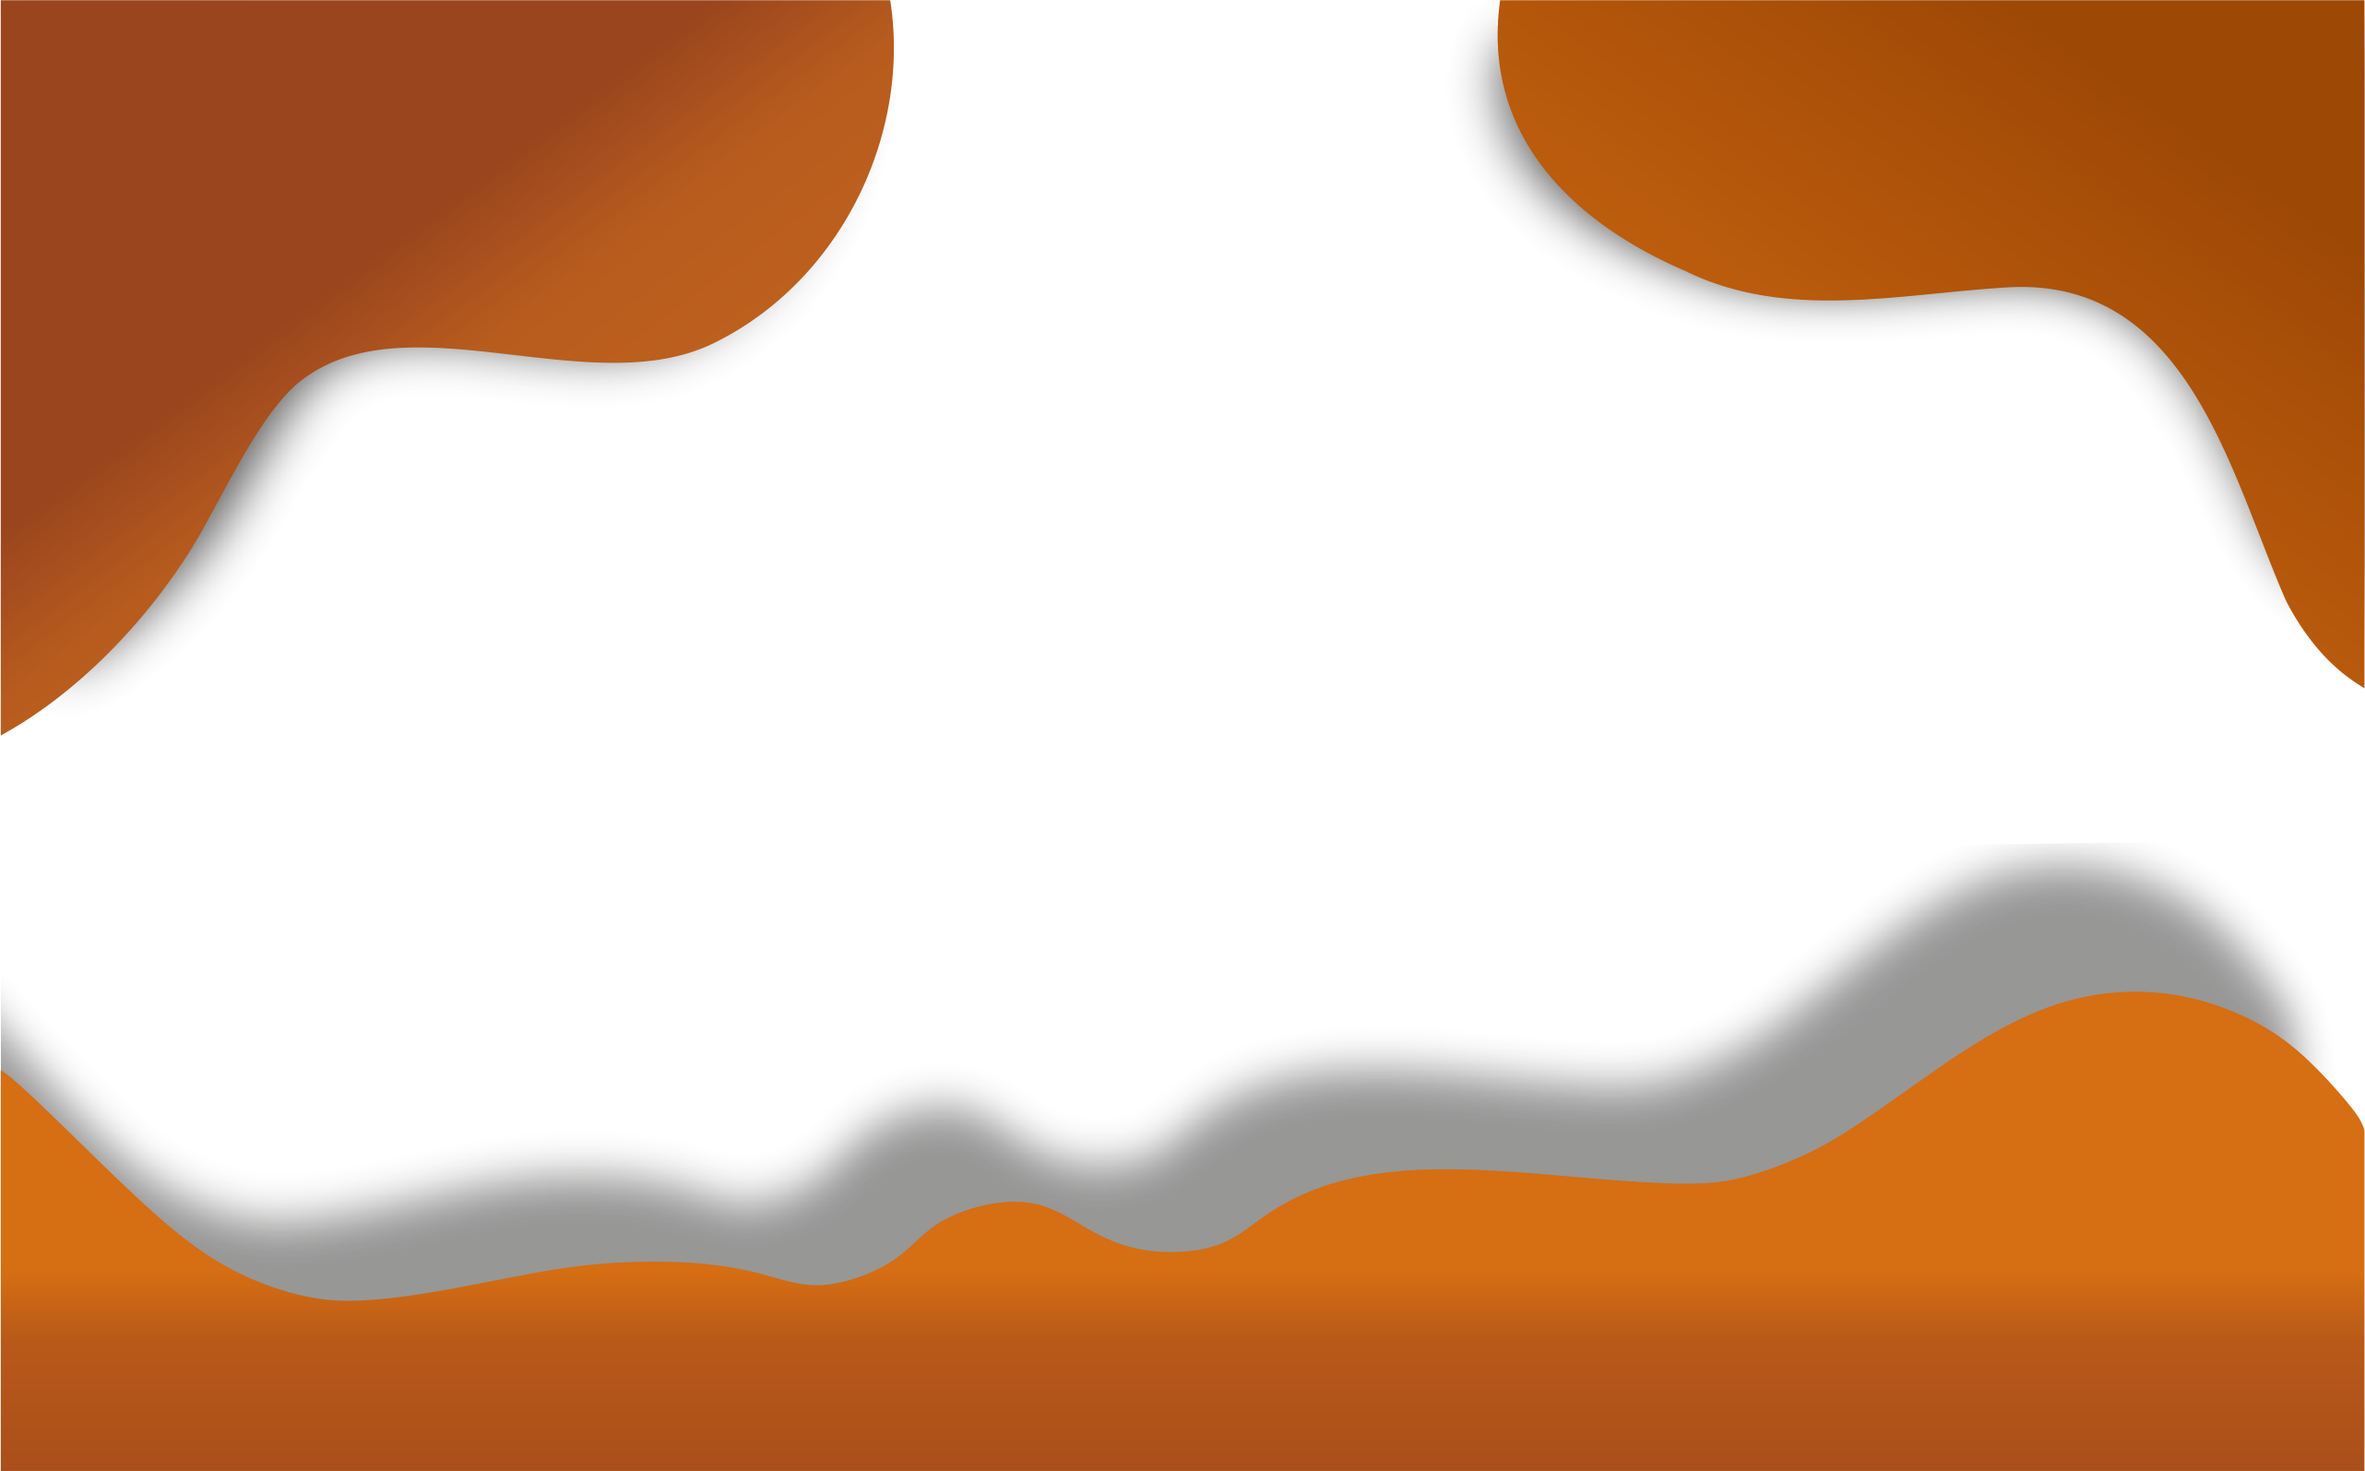
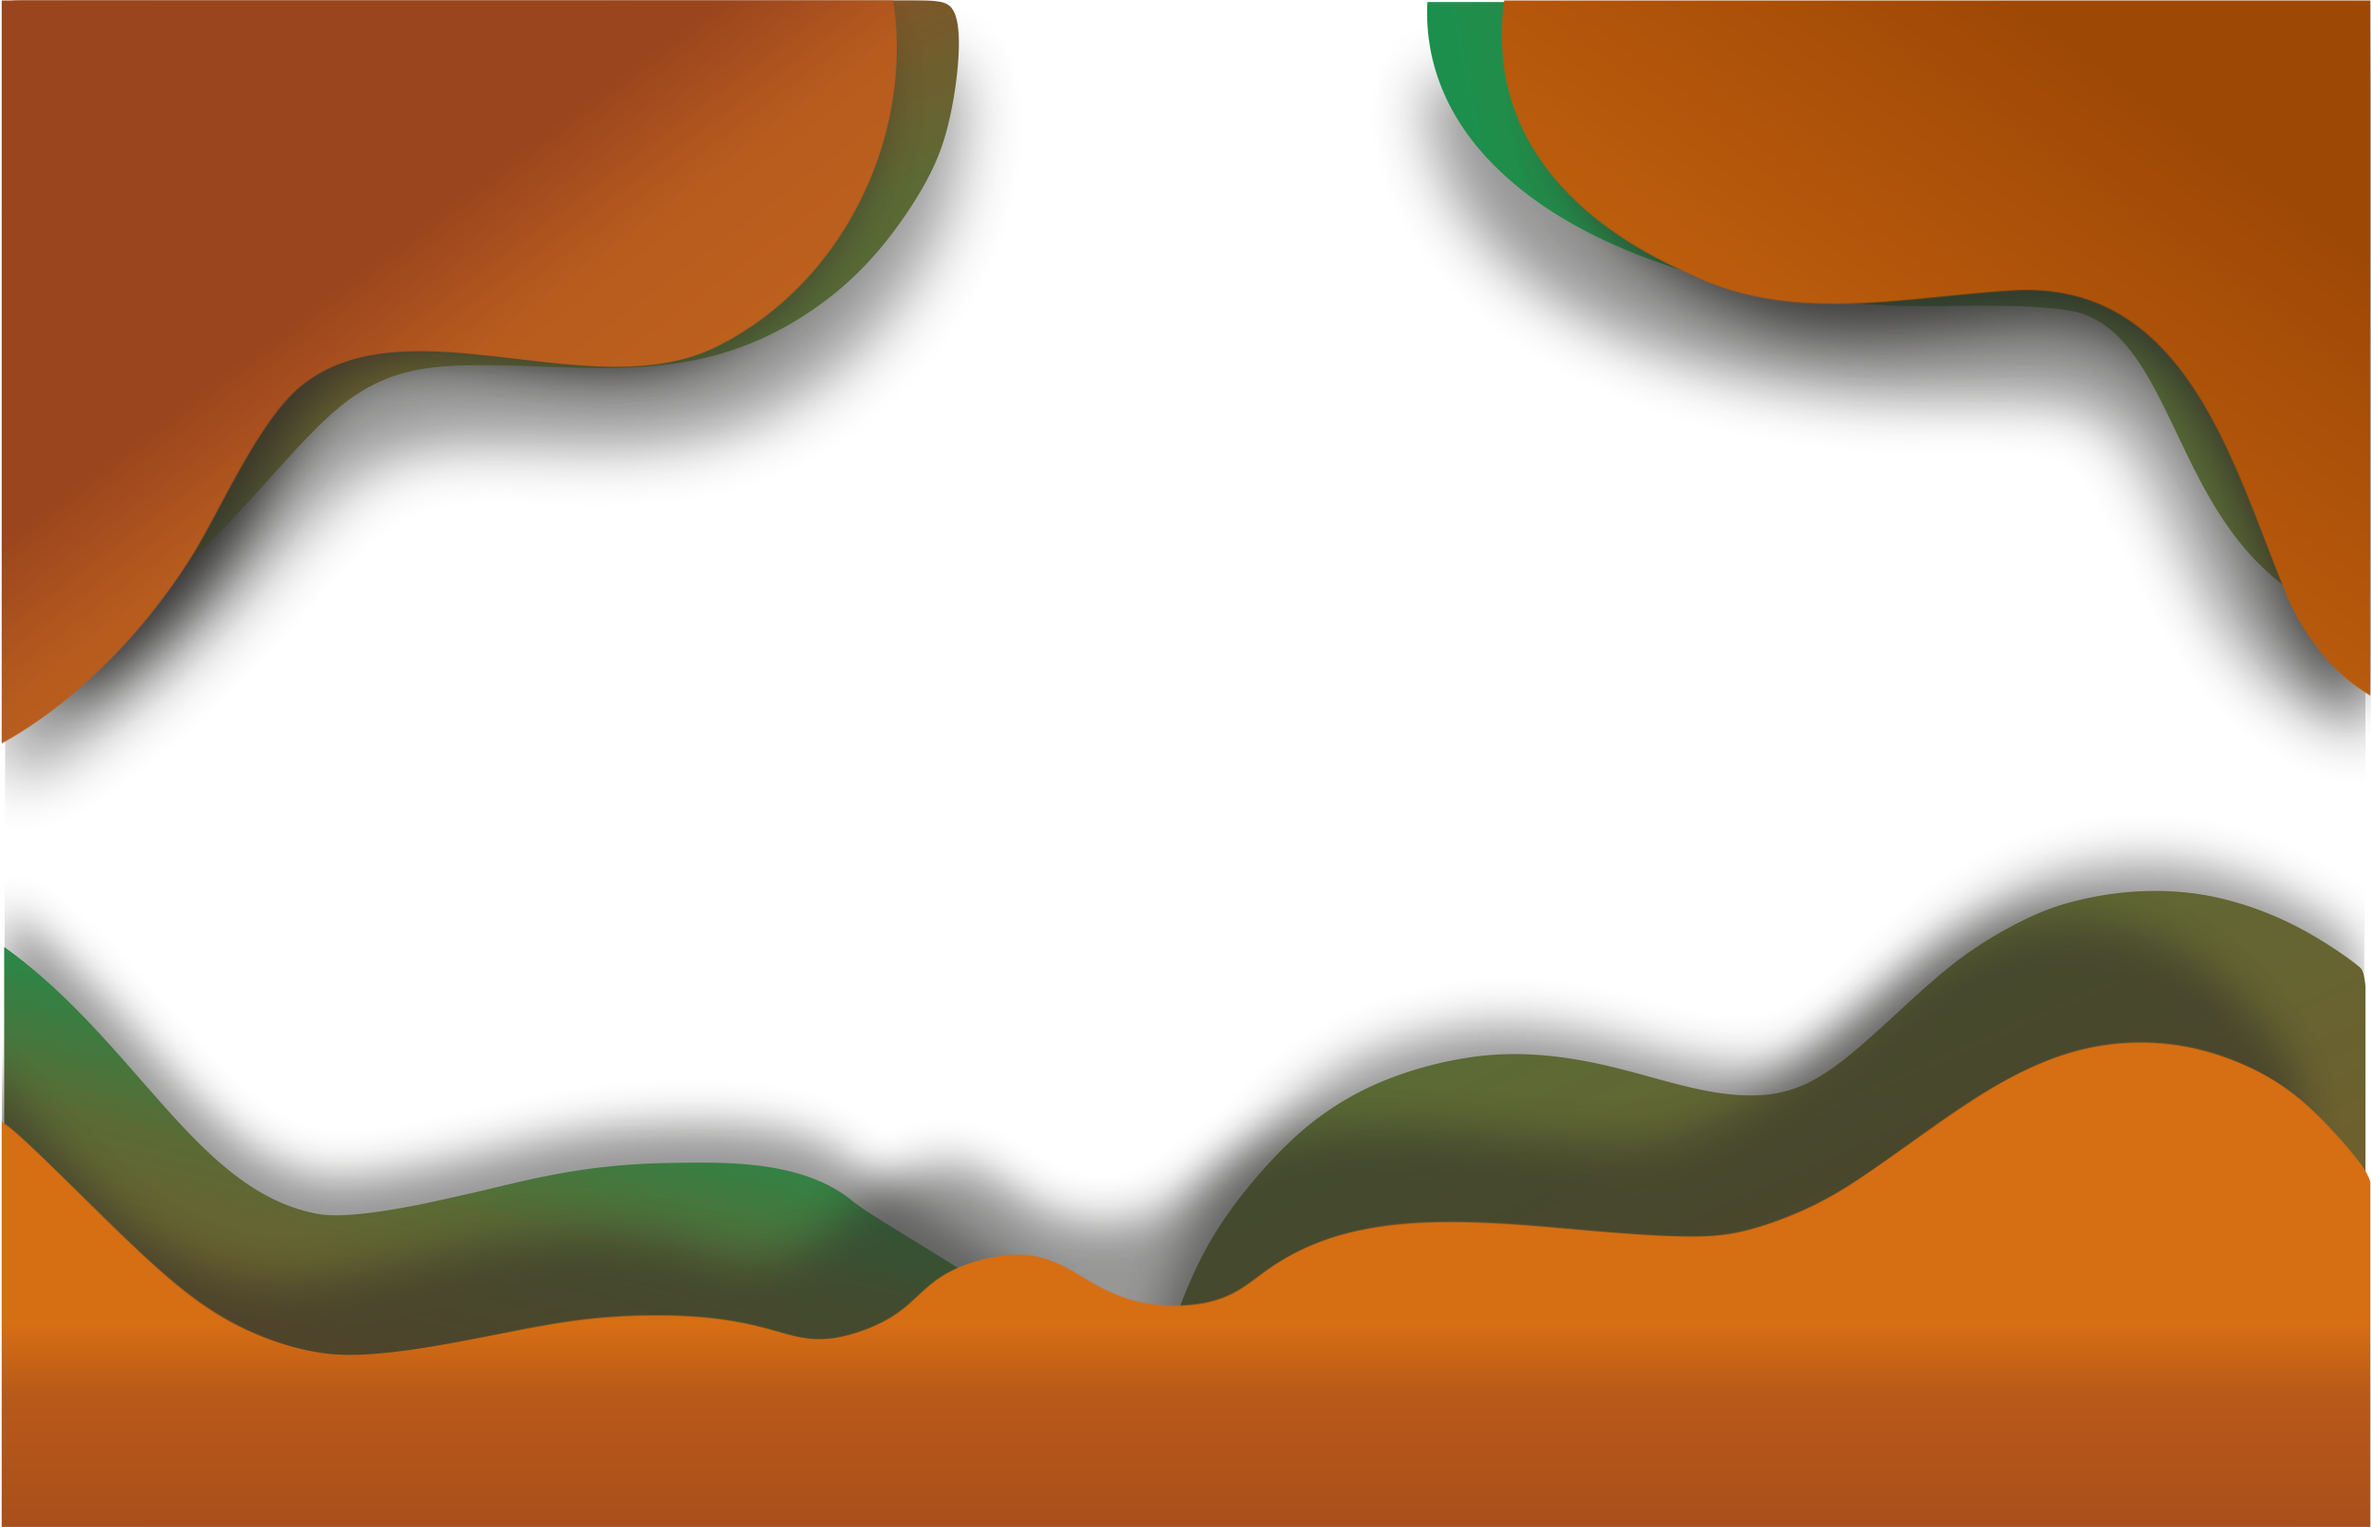
fix bg

diff --git a/index.html b/index.html
@@ -10,8 +10,8 @@
     <script src="jquery.novacancy.min.js"></script>
     <title>RD</title>
 </head>
-<body>
-    <header id="header">
+<body id="swape" >
+    <header id="header" >
         <a href="#" class="logo">Red Team</a>
         <div class="toggle"></div>
         <ul class="navigation">
@@ -45,8 +45,7 @@
                         </div>
             </div> 
             <div class="section slide3" >
-                <img src="assets/secondunder1.png" class="underground1">
-                    <img src="assets/secondunder2.png" class="underground2">
+                <img src="assets/secondunder1.png" class="underground3">
                         <div class="textbox">
                             <h2 id="neo">technology</h2>
                                 <p>Повседневная практика показывает, что реализация намеченных плановых заданий 
@@ -79,6 +78,17 @@
 
     <script>    
             //parallax двигает объекты 
+            
+            /*if (classList == ("fp-viewing-0")) {
+                alert ("да")
+            }*/
+      
+           
+
+            if (document.getElementsByClassName(".section .slide1 .fp-section .active .fp-table .fp-completely ") === document.getElementsByClassName(".section .slide1 .fp-section .active .fp-table .fp-completely ")){
+    
+  
+
             let cloud1 = document.getElementById('cloud1');
             let cloud2 = document.getElementById('cloud2');
             let sun = document.getElementById('sun');
@@ -96,6 +106,7 @@
             mount.style.bottom = value * -0.04 + '%'; 
              front.style.bottom = value * 0 + '%';
         })
+    }
     </script>
     
         <script>
@@ -114,13 +125,20 @@
 <script>
     //scroll докрутка до секции 
 new fullpage('#fullpage', {
-        scrollingSpeed: 1000,
+        scrollingSpeed: 1500,
         autoScrolling: false,
         fitToSection: true,
 	    fitToSectionDelay: 1000,
         interlockedSlides: true,
+        touchSensitivity: 15,
+        bigSectionsDestination: null,
+        scrollOverflowReset: true,
+	    scrollOverflowOptions: null,
         
-})
+        
+});
+fullpage_api.setAllowScrolling(true);
+
 </script>
 </body>
 </html>

diff --git a/style.css b/style.css
@@ -167,20 +167,25 @@ section img#cloud22
      z-index: 12;
      background-image: url(assets/under\ back.png);
     background-position: center;
-    
 }
 .underground1 {
     object-fit: fill;
     height: 100%;
-    
     z-index: 10;
    }
    .underground2 {
      object-fit: fill;
      height: 100%;
-     
      z-index: 9;
     }
+    .underground3 {
+        object-fit: fill;
+        width: 100%;
+        height: 101%;
+        z-index: 10;
+   
+       }
+      
 
 @media (max-width: 992px)
 
@@ -195,28 +200,6 @@ section img#cloud22
         width: 100%;
         height: 100% ;
     }
-   
-    .underground1 {
-       object-fit: cover;
-       height: 100%;
-       z-index: 10;
-  
-      }
-      .underground2 {
-        object-fit: cover;
-        height: 100%;
-        z-index: 9;
-       }
-
-    .textbox h2 {
-        font-size: 1.5em;
-        color: #fff;
-        text-align: center;
-    }
-    .textbox p {
-        text-align: center;
-    }
-
     section img
     {
     position: absolute;
@@ -225,21 +208,48 @@ section img#cloud22
     width: 100%;
     pointer-events: none ;
     }
+   
+    .underground1 {
+       object-fit: fill;
+       height: 100%;
+      
+       z-index: 10;
+  
+      }
+      .underground2 {
+        object-fit: fill;
+        height: 100%;
+        z-index: 9;
+       }
+       
+       .underground3 {
+        object-fit: fill;
+        height: 101%;
+        z-index: 10;
+        
+       }
+    .textbox h2 {
+        font-size: 1.5em;
+        color: #fff;
+        text-align: center;
+    }
+    .textbox p {
+        text-align: center;
+        font-size: 15px;
+    }
+
+    
     .slide2
     {
     position: relative;
-    padding-left: 10px;
-    padding-right: 10px;
-    padding-bottom: 0px;
+   
     width: 100%;
     height: 100%;
     }
     .slide3
     {
     position: relative;
-    padding-top: 0px;
-    padding-left: 10px;
-    padding-right: 10px;
+    
     width: 100%;
     height: 100%;
     }
